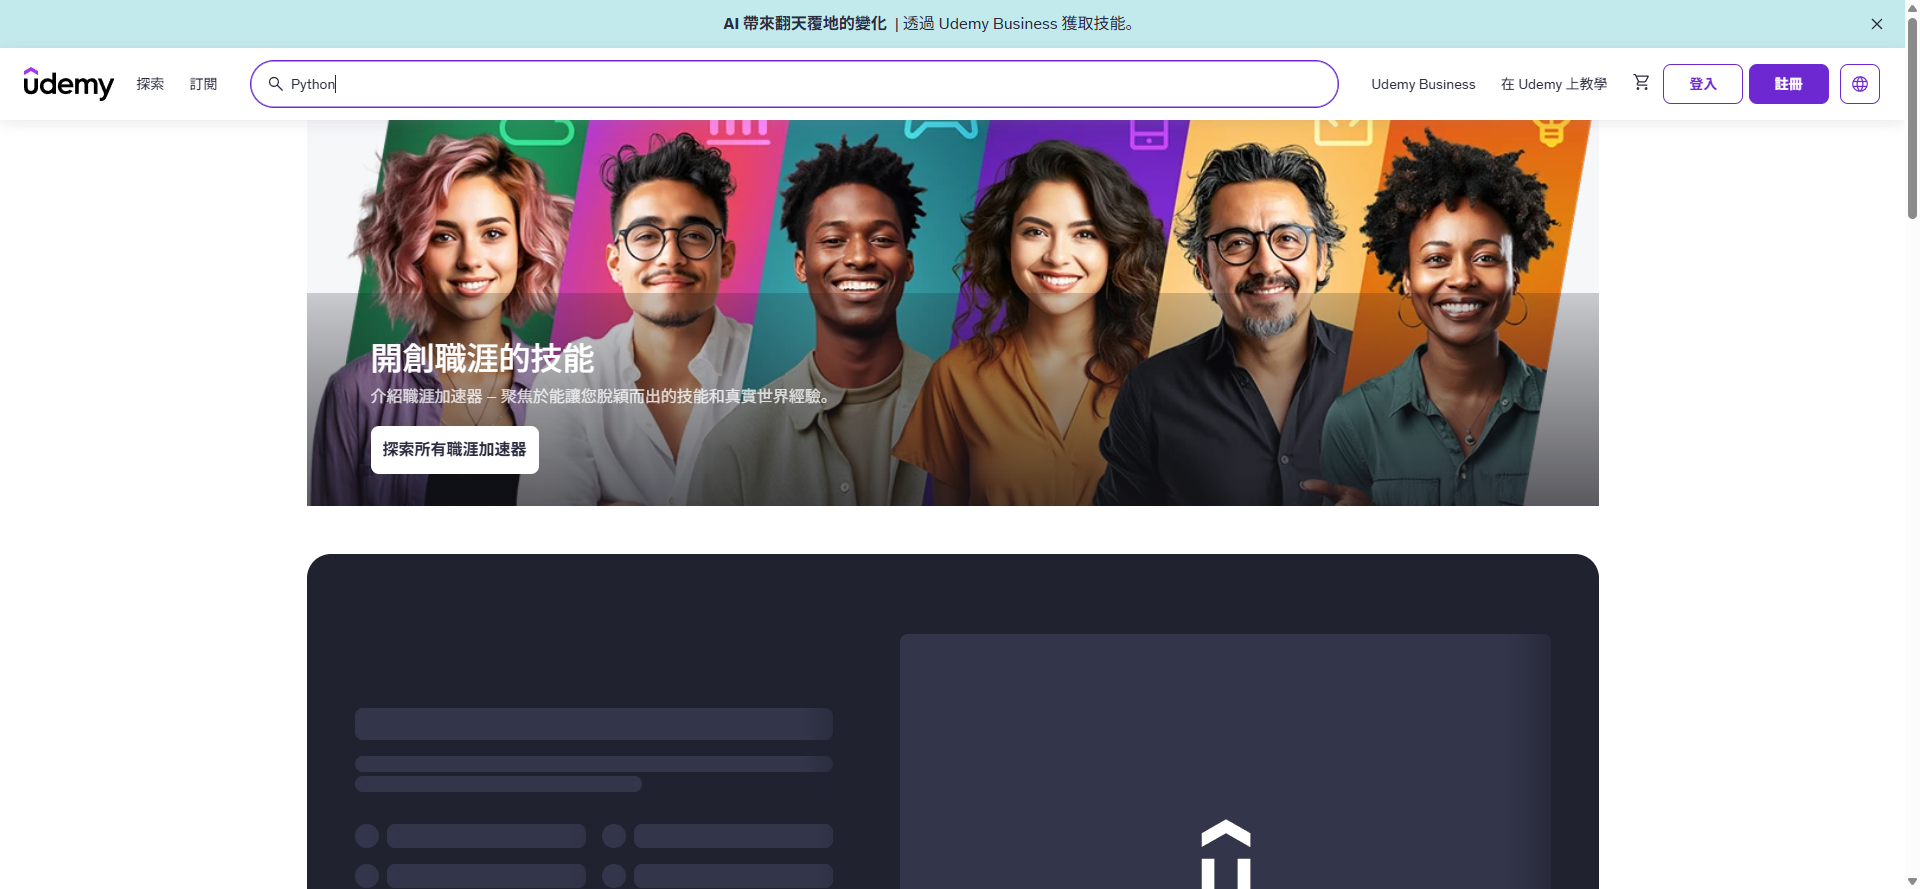
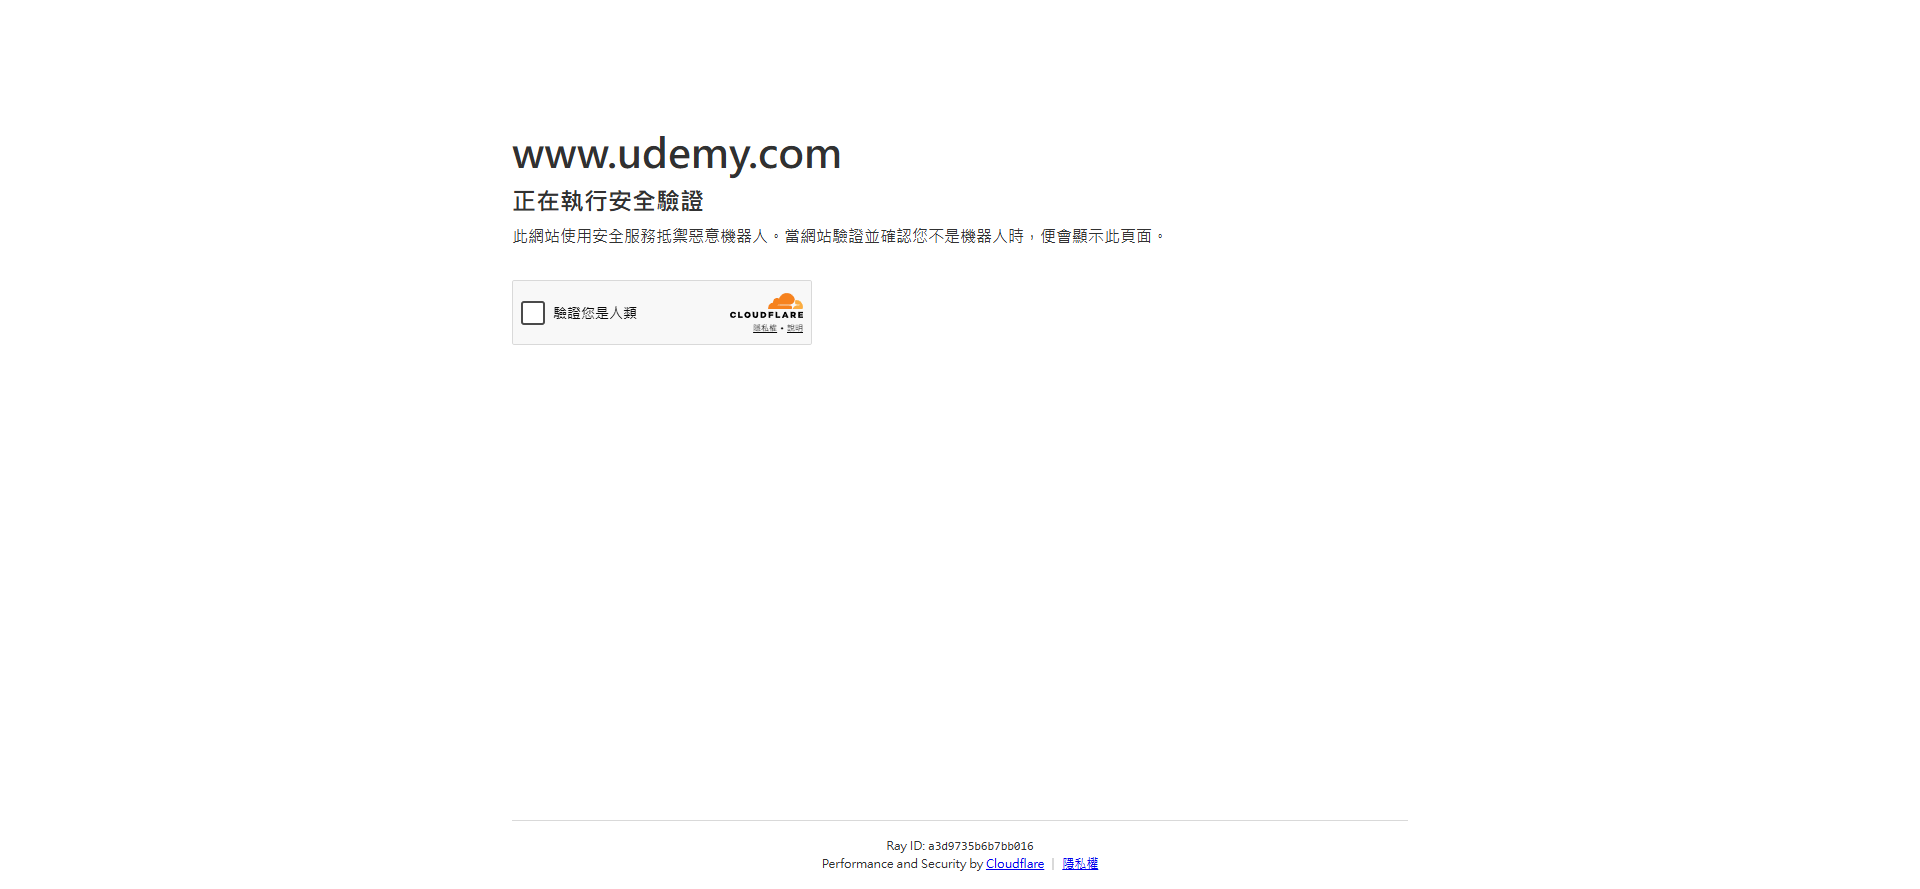
加入 User-Agent 避免被偵測為無頭瀏覽器

diff --git a/log.html b/log.html
@@ -2073,25 +2073,25 @@ storage = function () {
 window.output = {};
 </script>
 <script type="text/javascript">
-window.output["suite"] = [1,2,3,0,[],[1,0,12152],[],[[4,0,5,[],[1,192,7438],[[0,6,7,0,8,0,0,0,[1,193,1675],[[0,9,7,0,10,11,0,0,[1,194,1636],[[0,12,13,0,14,15,16,0,[1,194,0],[[194,2,17]]],[5,18,0,0,0,0,0,0,[3,195,0],[[0,19,20,0,21,22,23,0,[3,195,0],[]],[0,24,25,0,26,27,0,0,[3,195,0],[]]]],[7,0,0,0,0,0,0,0,[1,195,1634],[[0,24,25,0,26,28,0,0,[1,195,1572],[[195,2,29]]],[0,30,25,0,31,0,0,0,[1,1768,61],[]]]]]],[0,32,25,0,33,34,0,0,[1,1830,38],[]]]],[0,35,7,0,36,37,0,0,[1,1868,3471],[[0,38,25,0,39,40,0,0,[1,1869,194],[[1869,2,41]]],[0,42,25,0,43,44,0,0,[1,2063,275],[[2063,2,45],[2333,2,46],[2333,2,47]]],[0,48,20,0,49,50,0,0,[1,2338,3001],[[5339,2,51]]]]],[0,52,25,0,53,54,0,0,[1,5340,170],[[5509,2,55]]],[0,56,25,0,57,0,0,0,[1,5510,2120],[]]]],[58,0,59,[],[1,7630,4521],[[0,9,7,0,10,60,0,0,[1,7632,2186],[[0,12,13,0,14,15,16,0,[1,7632,0],[[7632,2,17]]],[5,18,0,0,0,0,0,0,[3,7632,0],[[0,19,20,0,21,22,23,0,[3,7632,0],[]],[0,24,25,0,26,27,0,0,[3,7632,0],[]]]],[7,0,0,0,0,0,0,0,[1,7633,2185],[[0,24,25,0,26,28,0,0,[1,7633,2138],[[7633,2,61]]],[0,30,25,0,31,0,0,0,[1,9771,47],[]]]]]],[0,62,7,0,63,37,0,0,[1,9818,59],[[0,32,25,0,33,64,0,0,[1,9819,46],[]],[0,65,25,0,66,67,0,0,[1,9864,13],[[9878,2,68]]]]],[0,69,7,0,70,0,0,0,[1,9878,31],[[0,32,25,0,33,71,0,0,[1,9878,30],[]]]],[0,52,25,0,53,72,0,0,[1,9909,128],[[10037,2,73]]],[0,56,25,0,57,0,0,0,[1,10038,2113],[]]]]],[],[2,2,0,0]];
+window.output["suite"] = [1,2,3,0,[],[1,0,14096],[],[[4,0,5,[],[1,192,9300],[[0,6,7,0,8,0,0,0,[1,193,3553],[[0,9,7,0,10,11,0,0,[1,194,3522],[[0,12,13,0,14,15,16,0,[1,194,0],[[195,2,17]]],[5,18,0,0,0,0,0,0,[3,195,0],[[0,19,20,0,21,22,23,0,[3,195,0],[]],[0,24,25,0,26,27,0,0,[3,195,0],[]],[0,28,20,0,29,30,0,0,[3,195,0],[]]]],[7,0,0,0,0,0,0,0,[1,195,3520],[[0,24,25,0,26,31,0,0,[1,195,3431],[[195,2,32]]],[0,33,25,0,34,0,0,0,[1,3627,88],[]]]]]],[0,35,25,0,36,37,0,0,[1,3716,30],[]]]],[0,38,7,0,39,40,0,0,[1,3746,3547],[[0,41,25,0,42,43,0,0,[1,3747,133],[[3747,2,44]]],[0,45,25,0,46,47,0,0,[1,3880,412],[[3880,2,48],[4159,2,49],[4159,2,50]]],[0,28,20,0,29,51,0,0,[1,4292,3001],[[7293,2,52]]]]],[0,53,25,0,54,55,0,0,[1,7293,45],[[7338,2,56]]],[0,57,25,0,58,0,0,0,[1,7339,2153],[]]]],[59,0,60,[],[1,9492,4603],[[0,9,7,0,10,61,0,0,[1,9494,2279],[[0,12,13,0,14,15,16,0,[1,9494,0],[[9494,2,17]]],[5,18,0,0,0,0,0,0,[3,9495,0],[[0,19,20,0,21,22,23,0,[3,9495,0],[]],[0,24,25,0,26,27,0,0,[3,9495,0],[]],[0,28,20,0,29,30,0,0,[3,9495,0],[]]]],[7,0,0,0,0,0,0,0,[1,9495,2278],[[0,24,25,0,26,31,0,0,[1,9495,2232],[[9495,2,62]]],[0,33,25,0,34,0,0,0,[1,11727,45],[]]]]]],[0,63,7,0,64,40,0,0,[1,11773,85],[[0,35,25,0,36,65,0,0,[1,11773,51],[]],[0,66,25,0,67,68,0,0,[1,11825,33],[[11858,2,69]]]]],[0,70,7,0,71,0,0,0,[1,11858,17],[[0,35,25,0,36,72,0,0,[1,11859,17],[]]]],[0,53,25,0,54,73,0,0,[1,11876,94],[[11970,2,74]]],[0,57,25,0,58,0,0,0,[1,11971,2125],[]]]]],[],[2,2,0,0]];
 </script>
 <script type="text/javascript">
 window.output["strings"] = [];
 </script>
 <script type="text/javascript">
[2 lines of base64/hex data omitted]
 </script>
 <script type="text/javascript">
-window.output["stats"] = [[{"elapsed":"00:00:12","fail":0,"label":"All Tests","pass":2,"skip":0}],[],[{"elapsed":"00:00:12","fail":0,"id":"s1","label":"Udemy Tests","name":"Udemy Tests","pass":2,"skip":0}]];
+window.output["stats"] = [[{"elapsed":"00:00:14","fail":0,"label":"All Tests","pass":2,"skip":0}],[],[{"elapsed":"00:00:14","fail":0,"id":"s1","label":"Udemy Tests","name":"Udemy Tests","pass":2,"skip":0}]];
 </script>
 <script type="text/javascript">
 window.output["errors"] = [];
 </script>
 <script type="text/javascript">
-window.output["baseMillis"] = 1789823735281;
+window.output["baseMillis"] = 1789829920989;
 </script>
 <script type="text/javascript">
-window.output["generated"] = 12159;
+window.output["generated"] = 14103;
 </script>
 <script type="text/javascript">
 window.output["expand_keywords"] = null;

diff --git a/report.html b/report.html
@@ -1881,7 +1881,7 @@ storage = function () {
 window.output = {};
 </script>
 <script type="text/javascript">
-window.output["suite"] = [1,2,3,0,[],[1,0,12152],[],[[4,0,5,[],[1,192,7438],[]],[6,0,7,[],[1,7630,4521],[]]],[],[2,2,0,0]];
+window.output["suite"] = [1,2,3,0,[],[1,0,14096],[],[[4,0,5,[],[1,192,9300],[]],[6,0,7,[],[1,9492,4603],[]]],[],[2,2,0,0]];
 </script>
 <script type="text/javascript">
 window.output["strings"] = [];
@@ -1890,13 +1890,13 @@ window.output["strings"] = [];
 window.output["strings"] = window.output["strings"].concat(["*","*Udemy Tests","*C:\\Users\\FLY-PC\\OneDrive\\桌面\\ROBOT\\tests\\udemy_tests.robot","*tests/udemy_tests.robot","*首頁搜尋功能測試","*<p>驗證使用者可以在首頁搜尋框輸入關鍵字並成功送出搜尋\x3c/p>","*課程頁面內容驗證測試","*<p>進入指定課程頁面，驗證標題文字正確，並確認頁面上有正常顯示價格資訊\x3c/p>"]);
 </script>
 <script type="text/javascript">
-window.output["stats"] = [[{"elapsed":"00:00:12","fail":0,"label":"All Tests","pass":2,"skip":0}],[],[{"elapsed":"00:00:12","fail":0,"id":"s1","label":"Udemy Tests","name":"Udemy Tests","pass":2,"skip":0}]];
+window.output["stats"] = [[{"elapsed":"00:00:14","fail":0,"label":"All Tests","pass":2,"skip":0}],[],[{"elapsed":"00:00:14","fail":0,"id":"s1","label":"Udemy Tests","name":"Udemy Tests","pass":2,"skip":0}]];
 </script>
 <script type="text/javascript">
-window.output["baseMillis"] = 1789823735281;
+window.output["baseMillis"] = 1789829920989;
 </script>
 <script type="text/javascript">
-window.output["generated"] = 12159;
+window.output["generated"] = 14103;
 </script>
 <script type="text/javascript">
 window.output["expand_keywords"] = null;
